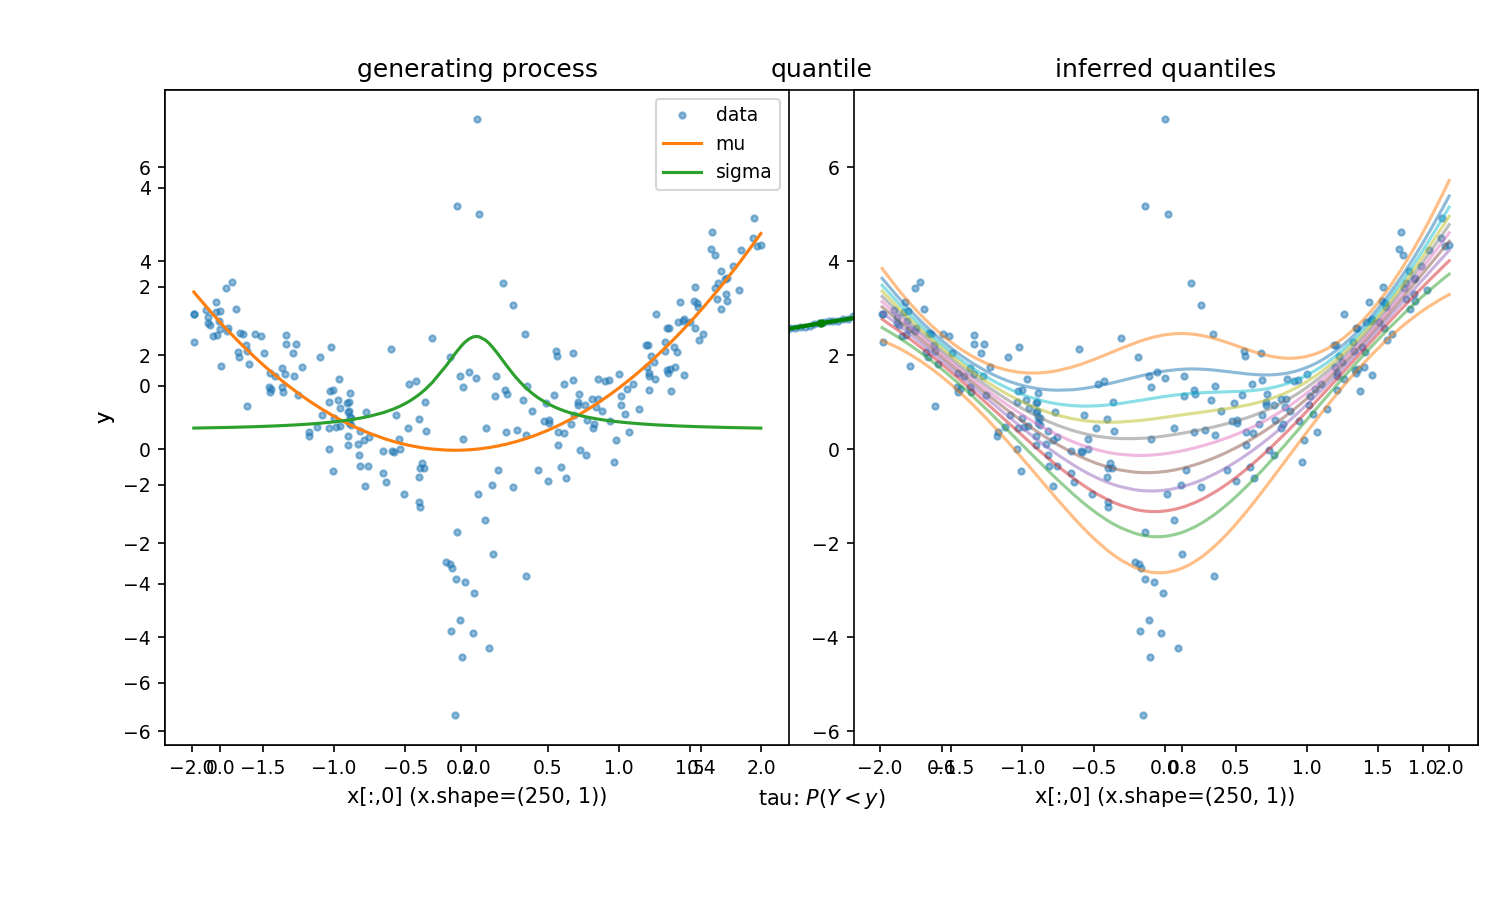
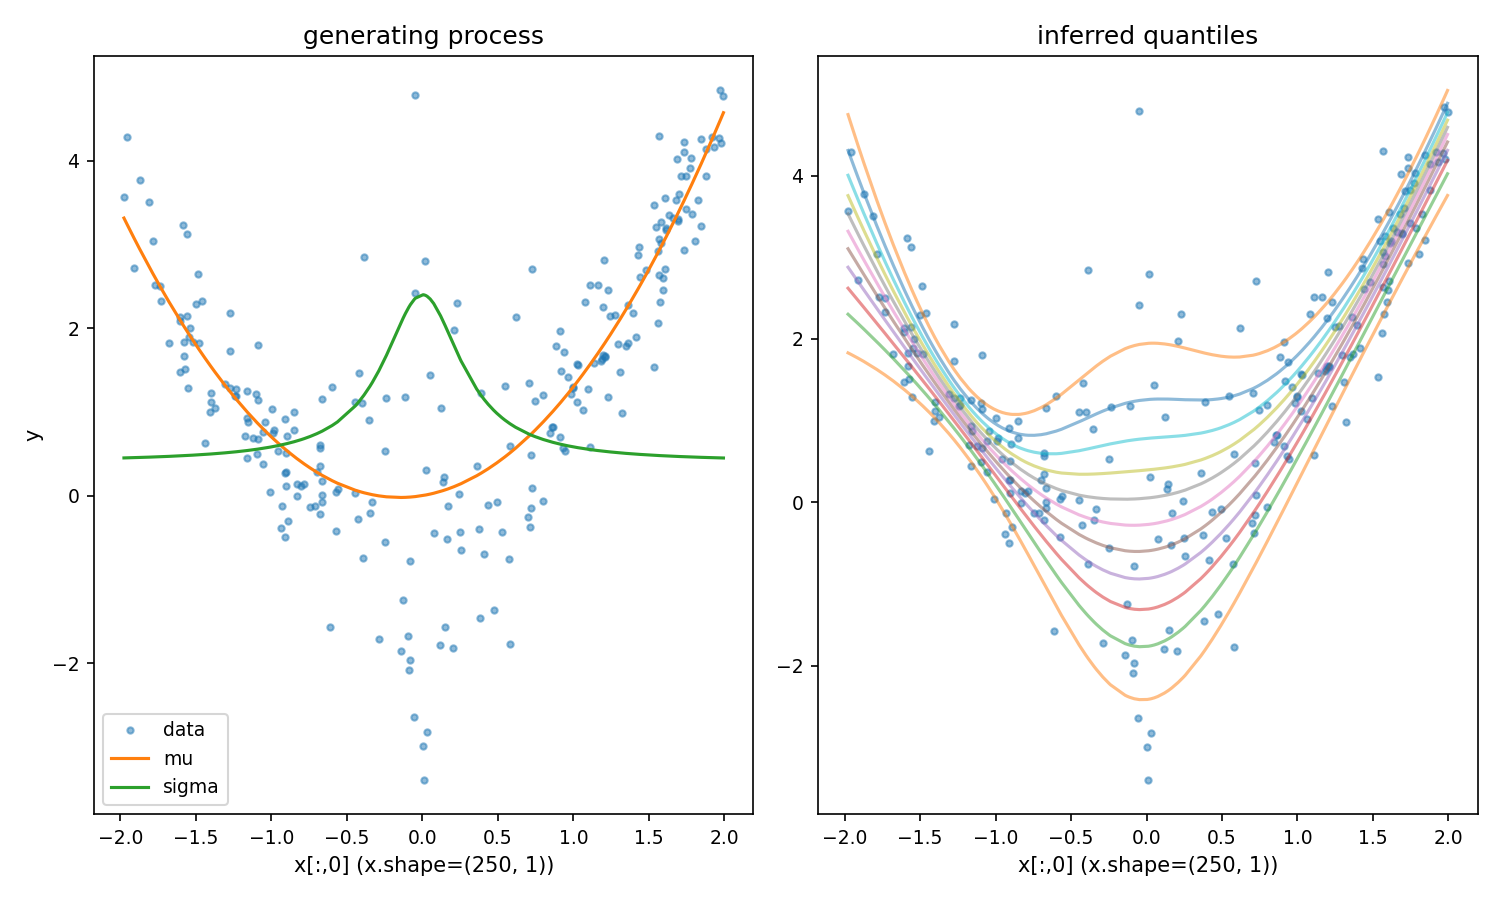
Fix jax plots.

diff --git a/quantile_regression_jax.py b/quantile_regression_jax.py
@@ -9,6 +9,8 @@ import optax
 
 from quantile_regression_common import get_data, set_consistent_figure_params
 
+# NOTE: WARNING: 2025-05-06 produced converting from tf to jax using claude etc lightly reviewed
+
 # Set up directories
 _mydir = os.path.dirname(os.path.abspath(__file__))
 _fig_dir = os.path.join(_mydir, 'figs/jax')
@@ -361,6 +363,7 @@ def sanity_plot_nox(steps=1000):
 
     # Plotting
     fig = plt.figure(figsize=(10, 6))
+    fig.clf()
     ax = fig.add_subplot(111)
 
     # Plot data
@@ -408,6 +411,7 @@ def cdfsanity_plot_nox(steps=1000):
 
     # Plotting
     fig = plt.figure(figsize=(10, 6))
+    fig.clf()
     ax = fig.add_subplot(111)
 
     # Plot data
@@ -456,6 +460,7 @@ def sanity_plot(steps=1000):
 
     # Plotting
     fig = plt.figure(1, figsize=(12, 6))
+    fig.clf()
     ax1 = fig.add_subplot(121)
     ax2 = fig.add_subplot(122)
 
@@ -523,6 +528,7 @@ def cdfsanity_plot(steps=1000):
 
     # Plotting
     fig = plt.figure(1, figsize=(12, 6))
+    fig.clf()
     ax1 = fig.add_subplot(121)
     ax2 = fig.add_subplot(122)
 
